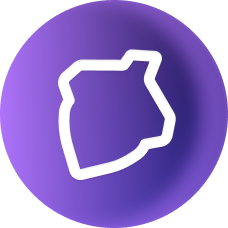
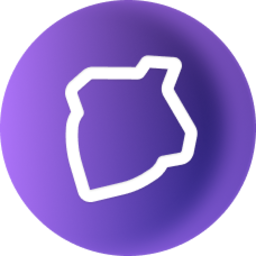
feat(webapp): follow best practices for images
- load only images with https
- check if the images are square
- increase the size of default network logos to keep the aspect ratio

diff --git a/webapp/src/utils/validate-image.js b/webapp/src/utils/validate-image.js
@@ -1,9 +1,11 @@
 const isLogoValid = (imgUrl) => {
+  if (!imgUrl || !imgUrl.startsWith('https')) return false
+
   const img = new Image()
 
   img.src = imgUrl
 
-  return img.width >= 100 && img.height >= 100
+  return img.width >= 100 && img.height === img.width
 }
 
 export default isLogoValid
